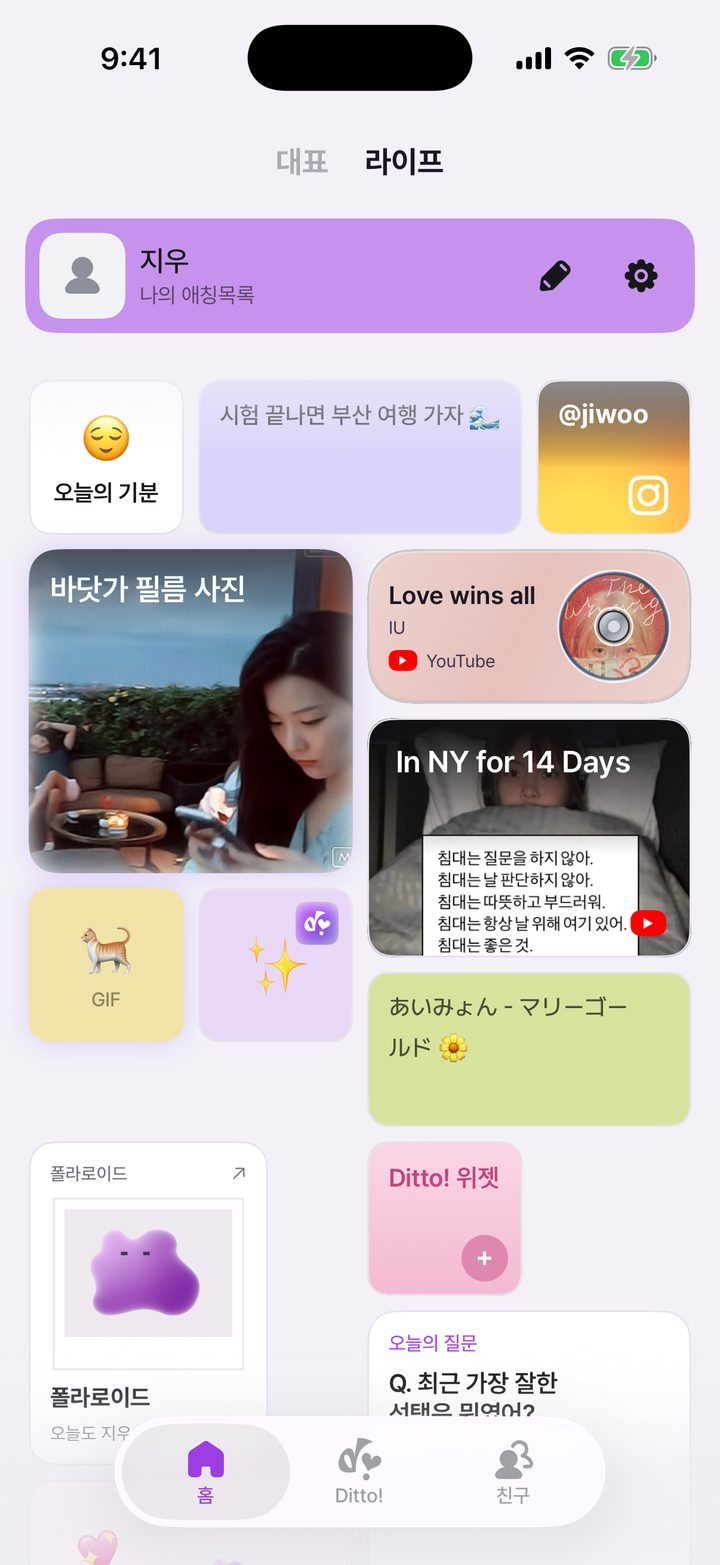
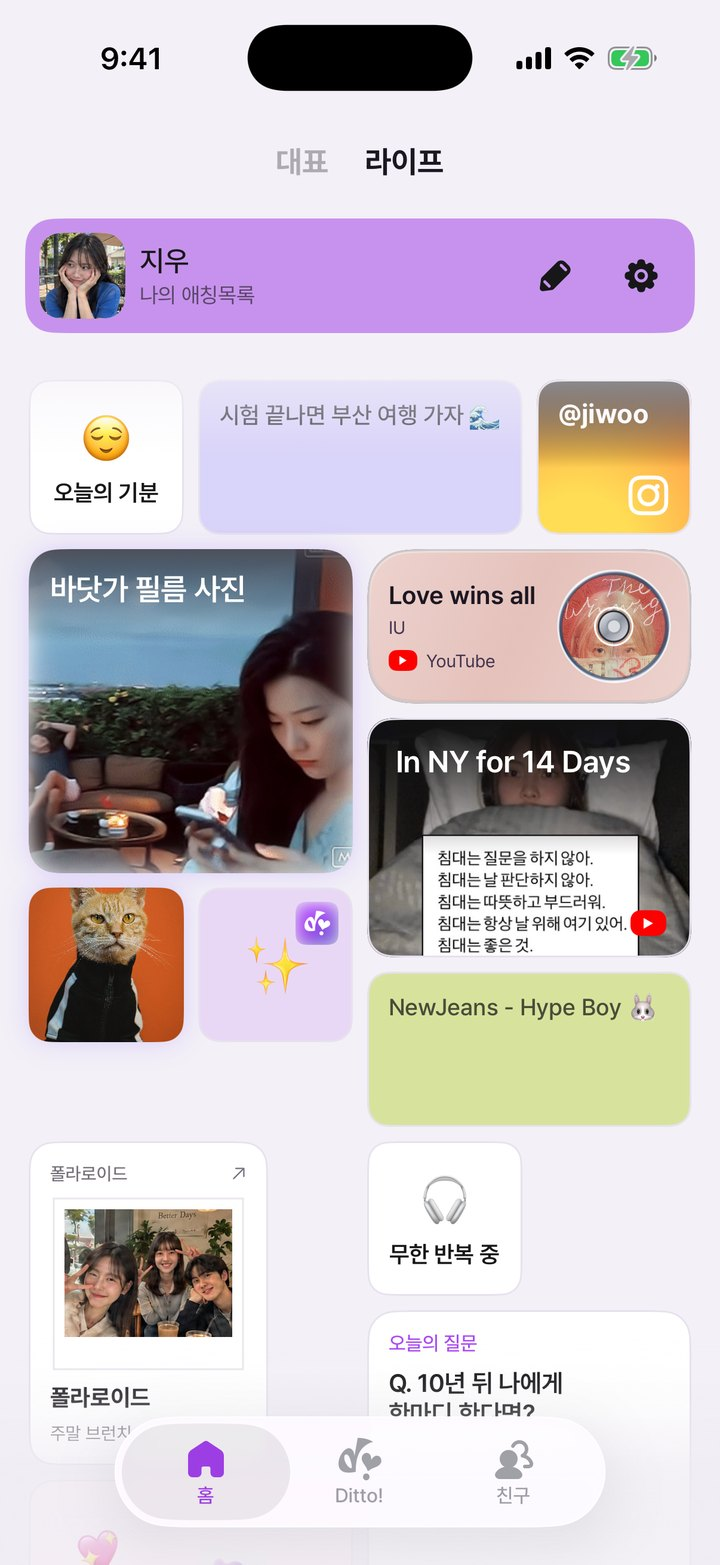
앱 투어 화면 재캡처 + 음악 위젯을 유명 K-pop으로 교체
- s-home/friends/fplatter/wdetail/ditto: 기본 프로필·빈 위젯·GIF 자리표시 제거한 새 캡처
- 음악: APT.(ROSÉ & Bruno Mars), LOVE DIVE(IVE), Hype Boy(NewJeans)
- 위젯 크기 선택 12종 이미지를 APT.로 재생성

diff --git a/index.html b/index.html
@@ -1566,7 +1566,7 @@ a.stkc:hover{transform:rotate(0deg) translateY(-2px);box-shadow:0 0 0 1px rgba(2
           </div>
           <div class="rm-body">
             <blockquote class="rm-q"><p>“사진 보내는 대신 여기 붙여둘게.”</p></blockquote>
-            <p class="rm-from"><img src="assets/rav-jiu.webp" alt="" width="40" height="40" loading="lazy" decoding="async"><span><small>디토로 가져온 조각</small><b>지우의 노래 <q>Perfect Night</q></b></span></p>
+            <p class="rm-from"><img src="assets/rav-jiu.webp" alt="" width="40" height="40" loading="lazy" decoding="async"><span><small>디토로 가져온 조각</small><b>지우의 노래 <q>LOVE DIVE</q></b></span></p>
           </div>
         </li>
         <li class="rm-slide" id="room-jaemin" style="--c:#6794A3;--c2:#3D798A">
